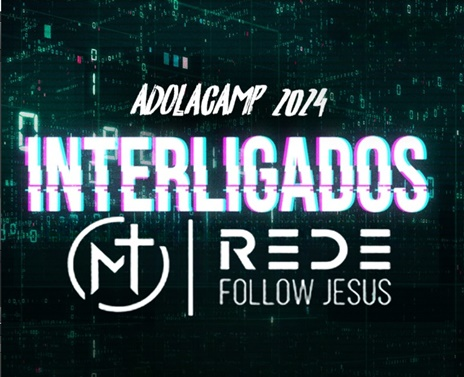
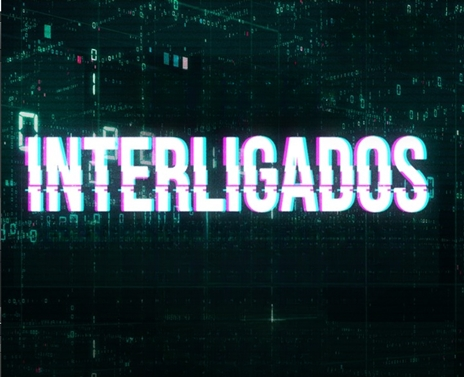
aplicando as orientacoes que Barbara mandou

diff --git a/index.html b/index.html
@@ -11,14 +11,16 @@
 <body>
     <div class="link-bio">
         <img src="adolacamp.jpg" alt="perfil">
-        <h1 class="titulo2">interligados<br>Mídias<br></h1>
+        <h1 class="titulo4">ADOLACAMp 2024</h1>
         <a class="titulo" href="quinta.html">Q U I N T A<h5 class="titulo3">TEMA</h5></a>
         <a class="titulo3" href="sexta.html">S E X T A<h5 class="titulo3">TEMA</h5></a>
         <a class="titulo" href="sabado.html">S Á B A D O<h5 class="titulo3">TEMA</h5></a>
         <a class="titulo" href="domingo.html">D O M I N G O<h5 class="titulo3">TEMA</h5></a>
-        <a class="titulo3" href="https://drive.google.com/drive/folders/15d0yE0wOM1TZ9VdNGoEJRvASjFf1BB9e?usp=share_link" target="_blank">FOTOS EXTRAS</a>
-        <a class="titulo3" href="https://drive.google.com/drive/folders/1qbi4yxBAhLPGBLS92CsZG2lJNhEBIdN7?usp=share_link" target="_blank">PÓS-ADOLA</a>
+        <a class="titulo3" href="" target="_blank">FOTOS EXTRAS</a>
+        <a class="titulo3" href="" target="_blank">PÓS-ADOLA</a>
     </div>
-
+    <footer class="rodape">
+             <img src="rodape.png" alt="rodapee">
+    </footer>
 </body>
 </html>

diff --git a/sabado.html b/sabado.html
@@ -12,11 +12,14 @@
     <div class="link-bio">
         <img src="adolacamp.jpg" alt="perfil">
         <h3 class="titulo">T E M A : </h3>
-        <h1 class="titulo2">Carregando...<br>.<br></h1>
+        <h1 class="titulo2">Carregando...</h1>
         <a class="titulo" href="" target="_blank">MANHÃ</a>
         <a class="titulo" href="" target="_blank">TARDE</a>
         <a class="titulo" href="" target="_blank">NOITE</a>
         <a class="titulo" href="" target="_blank">VIDEO HIGHLIGHT</a>
     </div>
+    <footer class="rodape">
+        <img src="rodape.png" alt="rodapee">
+</footer>
 </body>
 </html>

diff --git a/style.css b/style.css
@@ -12,8 +12,8 @@
 }
 
 @font-face {
-    font-family: havelock;
-    src: url(Havelock.otf);
+    font-family: California;
+    src: url(Californiaa.ttf);
 }
 
 @font-face {
@@ -89,4 +89,13 @@ body{
     text-align: center;
     font-family: Arame;
     color: aliceblue;
+}
+
+.titulo4 {
+    text-align: center;
+    font-family: California;
+}
+
+.rodape {
+    text-align: center;
 }

diff --git a/domingo.html b/domingo.html
@@ -17,5 +17,8 @@
         <a class="titulo" href="" target="_blank">VIDEO HIGHLIGHT</a>
         <a class="titulo" href="" target="_blank">FOTOS DAS IGREJAS</a>  
     </div>
+    <footer class="rodape">
+        <img src="rodape.png" alt="rodapee">
+</footer>
 </body>
 </html>

diff --git a/sexta.html b/sexta.html
@@ -19,5 +19,8 @@
         <a class="titulo" href="" target="_blank">VIDEO HIGHLIGHT</a>
         <a class="titulo" href="" target="_blank">FESTA CABELO MALUCO</a>
     </div>
+    <footer class="rodape">
+        <img src="rodape.png" alt="rodapee">
+</footer>
 </body>
 </html>

diff --git a/quinta.html b/quinta.html
@@ -17,5 +17,8 @@
         <a class="titulo" href="" target="_blank">NOITE</a>
         <a class="titulo" href="" target="_blank">POOL  PARTY</a>
     </div>
+    <footer class="rodape">
+        <img src="rodape.png" alt="rodapee">
+</footer>
 </body>
 </html>
